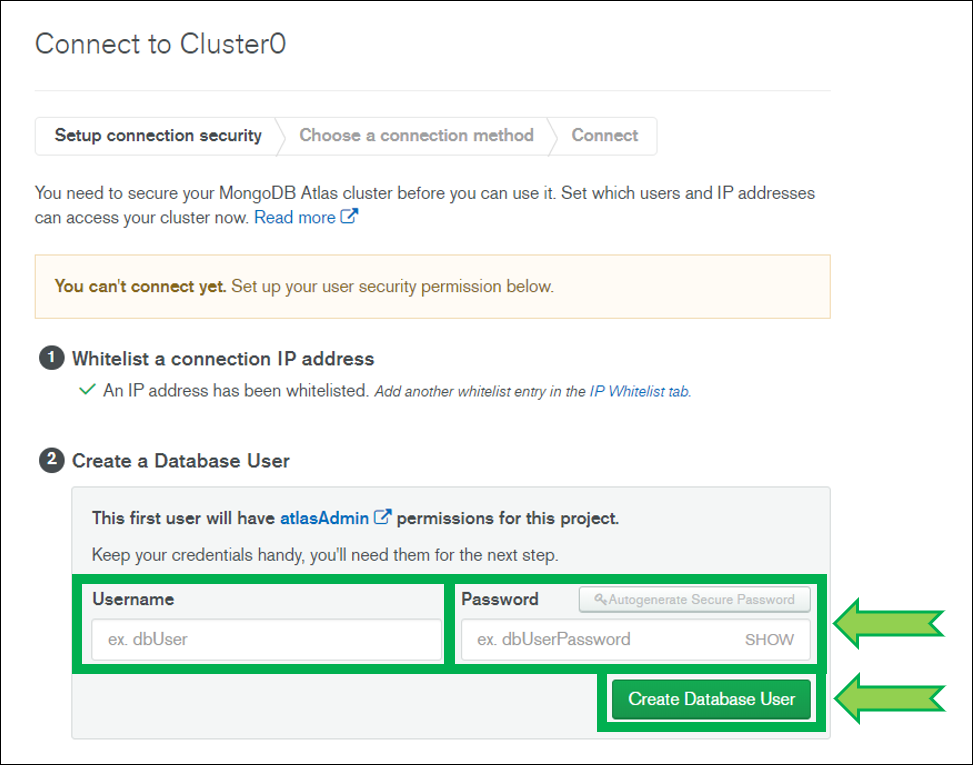
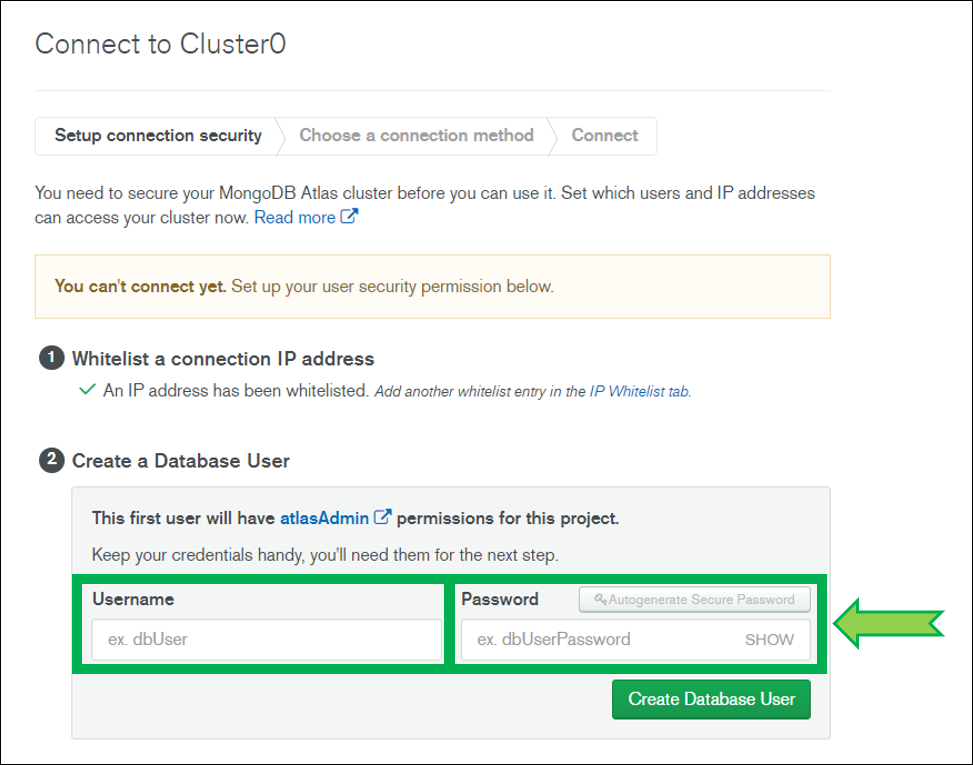
Update
Minor changes, adapted connection string troubleshooting to @TerrysNightscout documentation.
Continuing T1Pal integration.
Preparing for other deployment methods.

Changed region(s): [[0.6166, 0.8719, 0.9866, 0.9621]]

diff --git a/docs/troubleshoot/connection_string.md b/docs/troubleshoot/connection_string.md
@@ -284,100 +284,59 @@ If you're still in trouble continue below:
 
 ## Recover your connection string
 
-If you've tried several times to deploy or migrate, you might end-up with too many items to cope with in your different accounts. At this point, you could benefit doing some cleanup in order to identify the correct Atlas database you want to connect to.
-
-[Cleanup](../cleanup/) and come back.
+If you've tried several times to deploy or migrate, you might end-up with many useless items in your accounts. At this point, you could benefit doing some cleanup in order to identify the correct Atlas database you want to connect to. Consider [cleanup](../cleanup/) before continuing.
 
 </br>
 
-- Log into [Atlas](https://cloud.mongodb.com/)
-- Click `Connect` on your cluster
+a) Go to your MongDB account. Log in if necessary [https://cloud.mongodb.com/](https://cloud.mongodb.com/)
+
+b) Click `Connect` below your cluster name (in the example below `Cluster0`, but it might have another name)
 
 <img src="../img/TShoot07.png" style="zoom:80%;" >
 
 </br>
 
-- Click `Connect your application`
+c) Click `Connect your application`
 
 <img src="../img/TShoot09.png" style="zoom:80%;" >
 
 </br>
 
-- Click `Copy` then `Close`
+d) A new view opens, in  `(2) Add your connection string into your application code` you will find your MONGODB_URI or MONGO_CONNECTION string.
+
+Click `Copy` then `Close`
 
 <img src="../img/TShoot10.png" style="zoom:80%;" >
 
 </br>
 
-- Paste the connection string in this box below:
+e) Paste it into a place where you can edit the text (i.e. a Word or a Notepad document).
 
-<input type="text" id="myAtlas2" value="Yes here. Delete this and paste it here" size="100">
+Edit your string so that you add the database user password after the database user info. You defined them during your MongoDB Atlas database creation, when you reached [this step](../../nightscout/new_user/#h-add-a-database-username-for-example-nightscout-and-a-database-password-in-the-example-below-soo5ecret-but-please-change-it).
 
-- Modify the database password and database name (not username) in the boxes below (only letters and numbers allowed). Don't use the values below: they are examples. Put those you used when creating your Atlas database.
+Here’s an example of how the string is built up:
 
-Database password: <input type="text" id="myPwd2" value="soo5ecret" size="20">
-
-Database name: <input type="text" id="mydB2" value="mycgmic" size="20">
-
-!!! warning "If you migrated from mLab and Heroku (not Azure)"
-    **Your database name should be identical to your database user name!** (Unless you modified it) "
-
-- If you don't remember your Atlas database password (which should not be your mongoDB Atlas account password) invent a new one (only letters and numbers). And proceed to [Change your Atlas database password](./#change-your-atlas-database-password) then come back.
-
-
-
-
-<button onclick="Generate2()">Generate</button>
-
-<p style="font-size:25px" id="result2">The connection string will appear here</p>
-
-<script>
-var bAtlas;
-var sdB, sPwd;
-var sFinalString = "Not defined yet";
-
-function Generate2()
-{
-  var sString = sFinalString;
-
-  bAtlas=0;
-  var sString = "Looks good!";
-  var sAtlas = document.getElementById("myAtlas2").value;
-  sPwd = document.getElementById("myPwd2").value;
-  sdB = document.getElementById("mydB2").value;
-  var iAS = sAtlas.search("://");
-  if(iAS!=11) { sString = "Atlas URI should start with mongodb+srv://"; }
-  else
-  {
-    var iAP = sAtlas.search("<password>");
-    if(iAP==-1) { sString = "Atlas URI should contain &lt;password&gt;"; }
-    else
-    {
-      var iAD = sAtlas.search("<dbname>");
-      if(iAD==-1) { sString = "Atlas URI should contain &lt;dbname&gt;"; }
-      else
-      {
-      	bAtlas=1;
-        sString = sAtlas.substring(0,iAP);
-        sFinalString = sString.concat(sPwd, sAtlas.substring(iAP+10, iAD));
-        sString = sAtlas.substring(iAP+10, iAD);
-        sFinalString = sFinalString.concat(sdB, sAtlas.substring(iAD+8));
-      }
-    }
-  }
-
-  if(bAtlas) document.getElementById("result2").innerHTML = sFinalString;
-  else document.getElementById("result2").innerHTML = sString;
-}
-</script>
+`mongodb+srv://` `nightscout` `:`**`<password>`**`@cluster0.xxxxx.mongodb.net/`**`myFirstDatabase`**`?retryWrites=true&w=majority`
 
 </br>
 
+f) Edit your string in order to replace `<password>` with your database password.
 
+g) If you don't remember your Atlas database password (which should not be your mongoDB Atlas account password) invent a new one (only letters and numbers).
 
-- Copy the resulting string into your Heroku variable `MONGODB_URI` (new Nightscout) or `MONGO_CONNECTION` (migration). There must be only one of these variables, not both.
-- If there is neither one nor the other create a new `MONGODB_URI` variable and paste the string in the value field.
-- Restart all dynos in Heroku
+Your string will now look like this: (do not use the same password as the example). Note there are no remaining `<` and `>`.
+
+`mongodb+srv://nightscout:soo5ecret@cluster0.xxxxx.mongodb.net/myFirstDatabase?retryWrites=true&w=majority`
+
+</br>
+
+h) Copy this resulting string above into your Heroku variable `MONGODB_URI` (new Nightscout) or `MONGO_CONNECTION` (migration). There must be only one of these variables, not both. Open [this link](../../nightscout/new_user/#editing-config-vars-in-heroku) in another tab to see how to edit your Heroku variables.
+
+i) If there is neither one nor the other create a new `MONGODB_URI` variable and paste the string in the value field.
+
+j) If you remembered your password restart all dynos in Heroku, and you should be done.
+
+k) If you changed your password or your Nightscout page still fails to open continue.
 
 </br>
 
@@ -418,4 +377,4 @@ function Generate2()
 
 - Make sure the password matches in your connection string Heroku variable `MONGODB_URI` (new Nightscout) or `MONGO_CONNECTION` (migration)
 
-- Refresh your Nightscout web page display
+- Refresh your Nightscout web page display should be enough, you can also [restart Heroku dynos](../../troubleshoot/troublehoot/#restart-all-dynos).

diff --git a/docs/nightscout/new_user.md b/docs/nightscout/new_user.md
@@ -210,6 +210,11 @@ c) Select `Create a cluster in Shared Clusters (FREE)`
 
 <img src="..\img\NewNS19.png" style="zoom:80%;" />
 
+!!!note "If you ever see this, just STOP"
+    We're building a free cluster: you don't need to provide any billing information.
+
+<img src="..\img\NewNS19b.png" style="zoom:70%;" />
+
 </br>
 
 d) Leave all default values and click `Create Cluster`
@@ -244,7 +249,9 @@ g) Click on `Add IP Address`
 
 </br>
 
-h) Add a database username (for example `nightscout`) and a database password (in the example below `soo5ecret` but please change it!).
+###### h) Add a database username (for example `nightscout`) and a database password (in the example below `soo5ecret` but please change it!).
+
+<img src="..\img\NewNS25.png" style="zoom:80%;" />
 
 !!! warning "Database credentials: Do not use your Atlas account credentials. Do not use special characters: only letters and numbers."
 
@@ -258,7 +265,7 @@ Database username: <input type="text" id="myUsr" value="click here, delete and p
 
 i) Then click `Create Database User`.
 
-<img src="..\img\NewNS25.png" style="zoom:80%;" />
+<img src="..\img\NewNS25b.png" style="zoom:80%;" />
 
 </br>
 

diff --git a/docs/uploader/uploaders.md b/docs/uploader/uploaders.md
@@ -97,7 +97,7 @@ Most of the transmitters have their own proprietary apps. Nearly all of these su
 
 **Open-source apps** such as **xDrip+**, **Spike** and **xDrip4iOS** also support most of the above transmitter devices.
 
-For Android uploader devices, this is the possibility to directly connect to the Libre 2 sensor (EU only) without an additional transmitter. Please read [here](https://androidaps.readthedocs.io/en/latest/EN/Hardware/Libre2.html) for more information.
+You can connect to the Libre 2 sensor (**EU only**) without an additional transmitter using [xDrip+](https://www.minimallooper.com/post/how-to-setup-freestyle-libre-2-and-oop2-to-use-a-native-bluetooth-connection-in-xdrip), Diabox or [xDrip4iOS](https://xdrip4ios.readthedocs.io/en/latest/connect/cgm/#libre).
 </br>
 </br>
 

diff --git a/docs/nightscout/security.md b/docs/nightscout/security.md
@@ -1,6 +1,12 @@
 
 ## Nightscout Security
 
+<span style="font-size:smaller;">**APPLIES TO:**</span>	<img src="../../vendors/img/Heroku.png" style="zoom:80%;" />
+
+For <img src="../../vendors/img/T1Pal.png" style="zoom:80%;" /> users, your page is already secured and views can be defined from your [Share panel](https://t1pal.com/account/sites/my#Views).
+
+------
+
 Nightscout security model is based on the following assumptions:
 
 * The users of Nightscout only use it to process information about themselves or someone they're legally responsible for and thus own all of the data being stored in Nightscout.

diff --git a/docs/nightscout/wearable.md b/docs/nightscout/wearable.md
@@ -108,6 +108,8 @@ Select your Wearable device and enable the Glimp watchface.
 
 ## Amazfit Band 5, Bip, Bip Lite, Bip S and GTR
 
+## Amazfit GTR2, GTR2e, GTS2, GTS2e and GTR42
+
 #### xDrip+
 
 Follow Artem's instructions [here](https://bigdigital.home.blog/).

diff --git a/docs/vendors/digitalocean/index.md b/docs/vendors/digitalocean/index.md
@@ -1,3 +1,7 @@
 # digitalocean
 
 Coming soon
+
+
+
+[https://gist.github.com/DrCR77/eb08b830d4f31092cf65a8a9976dc0a6](https://gist.github.com/DrCR77/eb08b830d4f31092cf65a8a9976dc0a6)
